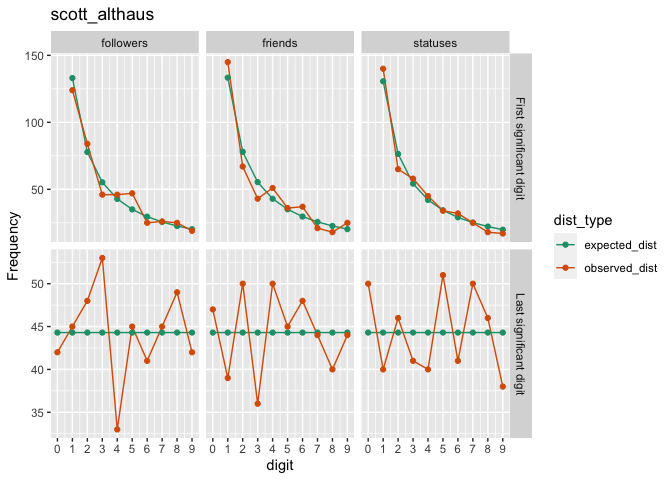
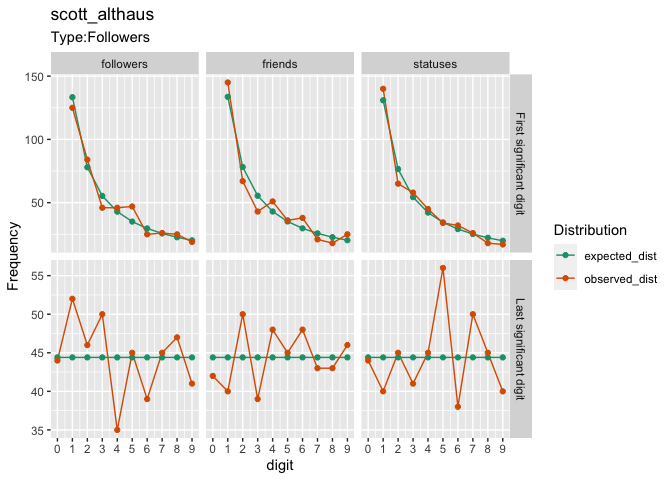
Update README and plot labels

diff --git a/README.md b/README.md
@@ -22,8 +22,8 @@ significant digits, please refer to Dlugosz & Müller-Funk (2009)
     [10.5210/fm.v24i8.10163](https://doi.org/10.5210/fm.v24i8.10163)
 3.  Dlugosz, S., & Müller-Funk, U. (2009). The value of the last digit:
     Statistical fraud detection with digit analysis. Advances in data
-    analysis and classification, 3(3), 281.
-    [doi:\[10.1007/s11634-009-0048-5](doi:%5B10.1007/s11634-009-0048-5)\](<https://doi.org/10.1007/s11634-009-0048-5>)
+    analysis and classification, 3(3), 281. doi:
+    [10.1007/s11634-009-0048-5](https://doi.org/10.1007/s11634-009-0048-5)
 
 ## Installation
 
@@ -62,13 +62,13 @@ res
 #> ── Last significant digit ──
 #> 
 #> ── Friends
-#> Chi-sq:  2.261
+#> Chi-sq:  3.638
 #> 
 #> ── Statuses
-#> Chi-sq:  11.971
+#> Chi-sq:  10.594
 #> 
 #> ── Followers
-#> Chi-sq:  21.174
+#> Chi-sq:  16.391
 ```
 
 ``` r
@@ -86,27 +86,27 @@ res_fol
 #> ── scott_althaus ──
 #> 
 #> ● Type:Followers
-#> ● Total: 443
+#> ● Total: 444
 #> ── First significant digit ──
 #> ── Friends
-#> Correlation:  0.976 / Chi-sq:  11.602
+#> Correlation:  0.975 / Chi-sq:  12.101
 #> 
 #> ── Statuses
-#> Correlation:  0.99 / Chi-sq:  4.356
+#> Correlation:  0.989 / Chi-sq:  4.37
 #> 
 #> ── Followers
-#> Correlation:  0.982 / Chi-sq:  8.039
+#> Correlation:  0.983 / Chi-sq:  7.891
 #> 
 #> ── Last significant digit ──
 #> 
 #> ── Friends
-#> Chi-sq:  4.562
+#> Chi-sq:  2.667
 #> 
 #> ── Statuses
-#> Chi-sq:  4.833
+#> Chi-sq:  5.82
 #> 
 #> ── Followers
-#> Chi-sq:  5.916
+#> Chi-sq:  5.144
 ```
 
 ``` r
@@ -130,24 +130,24 @@ malicious_res
 #> ● Total: 5000
 #> ── First significant digit ──
 #> ── Friends
-#> Correlation:  0.953 / Chi-sq:  255.114
+#> Correlation:  0.954 / Chi-sq:  249.836
 #> 
 #> ── Statuses
-#> Correlation:  1 / Chi-sq:  3.168
+#> Correlation:  1 / Chi-sq:  3.486
 #> 
 #> ── Followers
-#> Correlation:  0.996 / Chi-sq:  27.806
+#> Correlation:  0.996 / Chi-sq:  27.699
 #> 
 #> ── Last significant digit ──
 #> 
 #> ── Friends
-#> Chi-sq:  14.336
+#> Chi-sq:  13.116
 #> 
 #> ── Statuses
-#> Chi-sq:  7.7
+#> Chi-sq:  8.4
 #> 
 #> ── Followers
-#> Chi-sq:  6.74
+#> Chi-sq:  3.984
 ```
 
 ``` r
@@ -160,24 +160,24 @@ malicious_res2
 #> ● Total: 4998
 #> ── First significant digit ──
 #> ── Friends
-#> Correlation:  0.994 / Chi-sq:  36.329
+#> Correlation:  0.994 / Chi-sq:  40.182
 #> 
 #> ── Statuses
-#> Correlation:  0.999 / Chi-sq:  67.714
+#> Correlation:  0.999 / Chi-sq:  66.582
 #> 
 #> ── Followers
-#> Correlation:  0.999 / Chi-sq:  61.181
+#> Correlation:  0.999 / Chi-sq:  56.646
 #> 
 #> ── Last significant digit ──
 #> 
 #> ── Friends
-#> Chi-sq:  11.4
+#> Chi-sq:  5.305
 #> 
 #> ── Statuses
-#> Chi-sq:  2724.977
+#> Chi-sq:  2744.141
 #> 
 #> ── Followers
-#> Chi-sq:  1613.481
+#> Chi-sq:  1607.346
 ```
 
 ``` r
